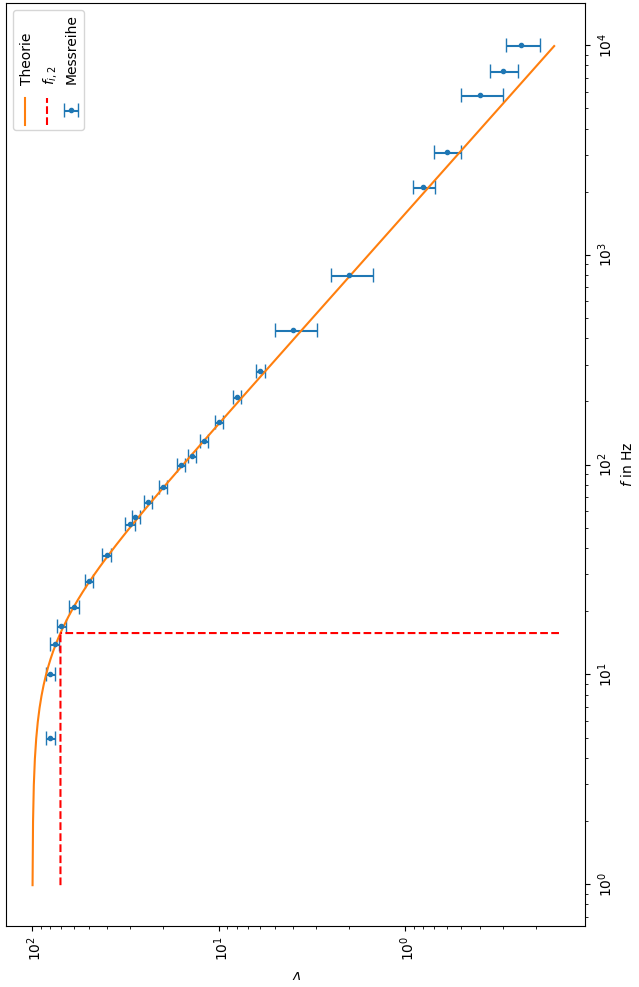
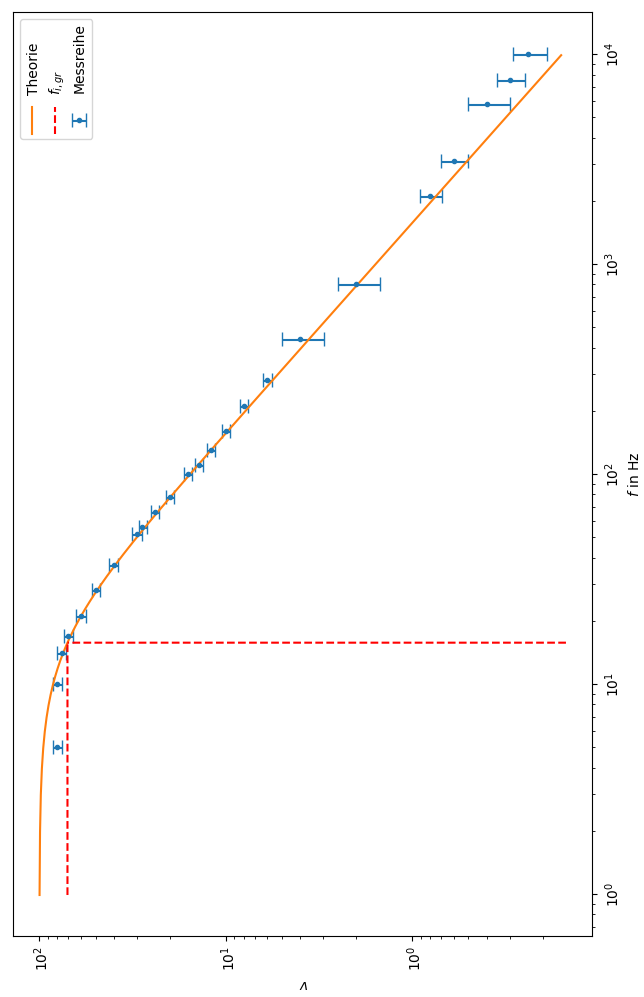
EL2: Aufgabe 2 fertig

diff --git a/Versuch_EL2/42-Teilauswertung-2.tex b/Versuch_EL2/42-Teilauswertung-2.tex
@@ -30,13 +30,13 @@ Betrachtet man nun die Gleichung \ref{eq:wi2} ergibt sich für diese Schaltung m
 \begin{gather*}
     R_1 = (10.0 \pm 0.3)~\text{k}\Omega,~R_2 = (1.00 \pm 0.03)~\text{M}\Omega~\text{und}~C_2 = (10.0 \pm 0.3)~\text{nF},
 \end{gather*}
-wobei dabei der Fehler der Widerstände mit $3\%$ des Messwerts abgeschätzt und der Kondensator einen vom Hersteller angegebenen Fehler von $2.5\%$ des angegeben Wertes hat, für die Grenzfrequenz $f_{i,2}$ mit dem Fehler $s_{f_{i,2}}$ (ermittelt durch das Fehlerfortpflanzungsgesetz):
+wobei dabei der Fehler der Widerstände mit $3\%$ des Messwerts abgeschätzt und der Kondensator einen vom Hersteller angegebenen Fehler von $2.5\%$ des angegeben Wertes hat, für die Grenzfrequenz $f_{i,gr}$ mit dem Fehler $s_{f_{i,gr}}$ (ermittelt durch das Fehlerfortpflanzungsgesetz):
 \begin{gather}
-    f_{i,2} = \frac{1}{2\pi R_2 C_2} = 15.91549~\text{Hz}\\[0.5cm]
-    s_{f_{i,2}} = \frac{1}{2\pi}\sqrt{\left(\frac{s_{R_2}}{R_2^2 C_2}\right)^2 + \left(\frac{s_{C_2}}{R_2 C_2^2}\right)^2} = 0.67523~\text{Hz}\\[0.5cm]
-    \Rightarrow \boxed{f_{i,2} = (15.9 \pm 0.7)~\text{Hz}}
+    f_{i,gr} = \frac{1}{2\pi R_2 C_2} = 15.91549~\text{Hz}\\[0.5cm]
+    s_{f_{i,gr}} = \frac{1}{2\pi}\sqrt{\left(\frac{s_{R_2}}{R_2^2 C_2}\right)^2 + \left(\frac{s_{C_2}}{R_2 C_2^2}\right)^2} = 0.67523~\text{Hz}\\[0.5cm]
+    \Rightarrow \boxed{f_{i,gr} = (15.9 \pm 0.7)~\text{Hz}}
 \end{gather}
-Dieses Ergebnis deckt sich mit der Messung, da bei einer Frequenz von $100~\text{Hz}$ erkennt man in Abbildung \ref{abb:int} schon die Dreiecksspannung, währendessen bei einer Frequenz von $10~\text{Hz}$ das Signal der Ausgangsspannung $U_a$ die Ladekurve des Kondensators zeigt. Dies hat den Grund, dass der OPV ungefähr ab der Grenzfrequenz $f_{i,2}$ linear arbeitet und korrekt integriert. Weiterhin lässt sich durch Erhöhung der Frequenz der Spannungsquelle durch die Einstellungen am Oszilloskop (siehe S.22) gut erkennen, dass die Verstärkung frequenzabhängig ist.\\
+Dieses Ergebnis deckt sich mit der Messung, da bei einer Frequenz von $100~\text{Hz}$ erkennt man in Abbildung \ref{abb:int} schon die Dreiecksspannung, währendessen bei einer Frequenz von $10~\text{Hz}$ das Signal der Ausgangsspannung $U_a$ die Ladekurve des Kondensators zeigt. Dies hat den Grund, dass der OPV ungefähr ab der Grenzfrequenz $f_{i,gr}$ linear arbeitet und korrekt integriert. Weiterhin lässt sich durch Erhöhung der Frequenz der Spannungsquelle durch die Einstellungen am Oszilloskop (siehe S.22) gut erkennen, dass die Verstärkung frequenzabhängig ist.\\
  \\
 Für den theoretischen Verlauf der Verstärkung $v_{i,2}$ betrachten wir Gleichung (2.20) mit $\omega = 2\pi f$.
 %, woraus für dessen Fehler mit dem Fortpflanzungsgesetz folgt:
@@ -56,7 +56,7 @@ Mit einsetzen der Messwerte folgt dann folgende Tabelle \ref{tab:int}, wobei der
 \newpage
 \begin{center}
     \captionof{table}{Messreihe Umkehrintegrator}
-    \begin{tabular}{l c c c c c | c c}
+    \begin{tabular}{l | c c c c c | c c}
         {} &   $f$/Hz &  $U_a$/V &  $s_{U_a}$/V &  $U_e$/V &  $s_{U_e}$/V 
         &      $v$ &   $s_v$ \\
         \hline
@@ -87,7 +87,7 @@ Mit einsetzen der Messwerte folgt dann folgende Tabelle \ref{tab:int}, wobei der
     \end{tabular}
     \label{tab:int}
 \end{center}
-Trägt man die Verstärkung $v$ doppellogarithmisch gegen die Frequenz $f$ auf erhält man Abbildung \ref{abb:intMess}. Dabei ist deutlich zu erkennen, dass die Messung in Rahmen der Messgenauigkeit gut getroffen wurde. Auch ist die Grenzfrequenz $f_{i,2}$ durch die Messung nochmal bestätigt und es lässt sich gut der lineare Bereich des OPVs erkennen, indem dieser korrekt integriert.
+Trägt man die Verstärkung $v$ doppellogarithmisch gegen die Frequenz $f$ auf erhält man Abbildung \ref{abb:intMess}, wobei der theoretische Verlauf von $v$ gegeben ist durch die Gleichung (2.20). Dabei ist deutlich zu erkennen, dass die Messung in Rahmen der Messgenauigkeit gut getroffen wurde. Auch ist die Grenzfrequenz $f_{i,gr}$ durch die Messung nochmal bestätigt und es lässt sich gut der lineare Bereich des OPVs erkennen, indem dieser korrekt integriert.
 \newpage
 \begin{center}
     \captionof{figure}{Frequenzgang des Umkehrintegrator}

diff --git a/Versuch_EL2/42-Auswertung.py b/Versuch_EL2/42-Auswertung.py
@@ -1,4 +1,3 @@
-from matplotlib import markers
 import numpy as np
 import matplotlib.pyplot as plt
 import pandas as pd
@@ -49,7 +48,7 @@ y, y_err = df['v'], df['s_v']
 
 plt.errorbar(x, y, yerr=y_err, fmt='.', capsize=5, label = 'Messreihe')
 plt.plot(x_T, y_T, label='Theorie')
-plt.plot(x_fgr, x_c, linestyle = '--', label = r'$f_{i,2}$', color ='r')
+plt.plot(x_fgr, x_c, linestyle = '--', label = r'$f_{i,gr}$', color ='r')
 plt.plot(y_c, y_fgr, linestyle = '--', color = 'r')
 plt.xlabel(r'$f$ in Hz')
 plt.xscale('log')
